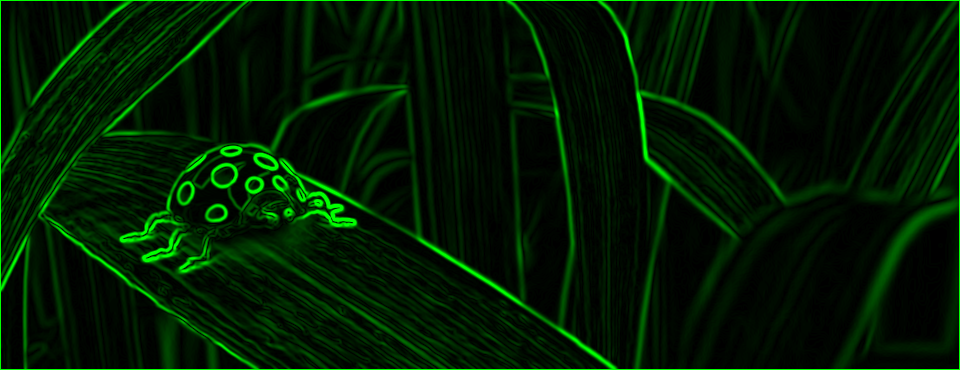
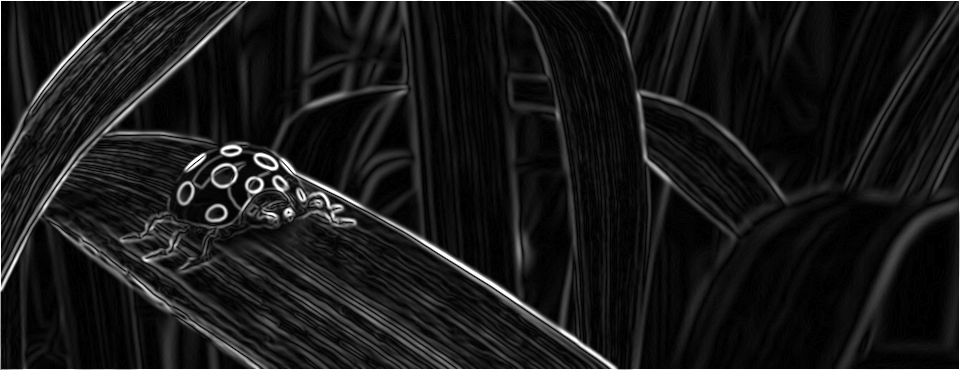
Improved disconnected graph highlighting

diff --git a/Image_Edge_Detection/object_detector.cpp b/Image_Edge_Detection/object_detector.cpp
@@ -75,7 +75,8 @@ bool Object_Detector::Is_Edge(int x, int y, Pixel* index_pix)
 				index_x = x+i;
 				index_y = y+j;
 
-				if ( (index_x >= 0) && (index_x < m_image->m_width) && (index_y >= 0) && (index_y < m_image->m_height))
+                //Bounds must be set to reduce edges at the border of the image
+				if ( (index_x >= 1) && (index_x < (m_image->m_width-1)) && (index_y >= 1) && (index_y < (m_image->m_height)-1))
 				{
 					m_image->Get_Pixel(index_x, index_y, index_pix);
 					if (index_pix->r == 0x00)
@@ -112,7 +113,6 @@ void Object_Detector::Determine_Disconected_Graph(int x_in, int y_in, int blu, i
 		bfs_queue.pop();
 
 		m_image->Set_Pixel(current_point.x, current_point.y, blue_pix);
-
 		new_graph.points.push_back(current_point);
 		new_graph.size++;
 
@@ -122,7 +122,7 @@ void Object_Detector::Determine_Disconected_Graph(int x_in, int y_in, int blu, i
 			{
 				index_x = current_point.x + i;
 				index_y = current_point.y + j;
-				if ( (index_x >= 0) && (index_x < m_image->m_width) && (index_y >= 0) && (index_y < m_image->m_height))
+				if ( (index_x >= 1) && (index_x < (m_image->m_width-1)) && (index_y >= 1) && (index_y < (m_image->m_height-1)))
 				{
 					if (m_edges[index_x][index_y])
 					{
@@ -151,14 +151,15 @@ void Object_Detector::Determine_All_Disconected_Graphs()
 
 	int blu = 0x255, gre = 0;
 
-	for (int x = 0; x < (m_image->m_width); x++)
+	for (int x = 1; x < (m_image->m_width-1); x++)
 	{
-		for (int y = 0; y < (m_image->m_height); y++)
+		for (int y = 1; y < (m_image->m_height-1); y++)
 		{
 			if (m_edges[x][y])
 			{
-				blu = (blu - 0xF) % 0xFF;
-				gre = (gre + 0xF) % 0xFF;
+				blu = (blu - 0x2) % 0xFF;
+				gre = (gre + 0x7) % 0xFF;
+
 				Determine_Disconected_Graph(x,y,blu,gre);
 			}
 		}
